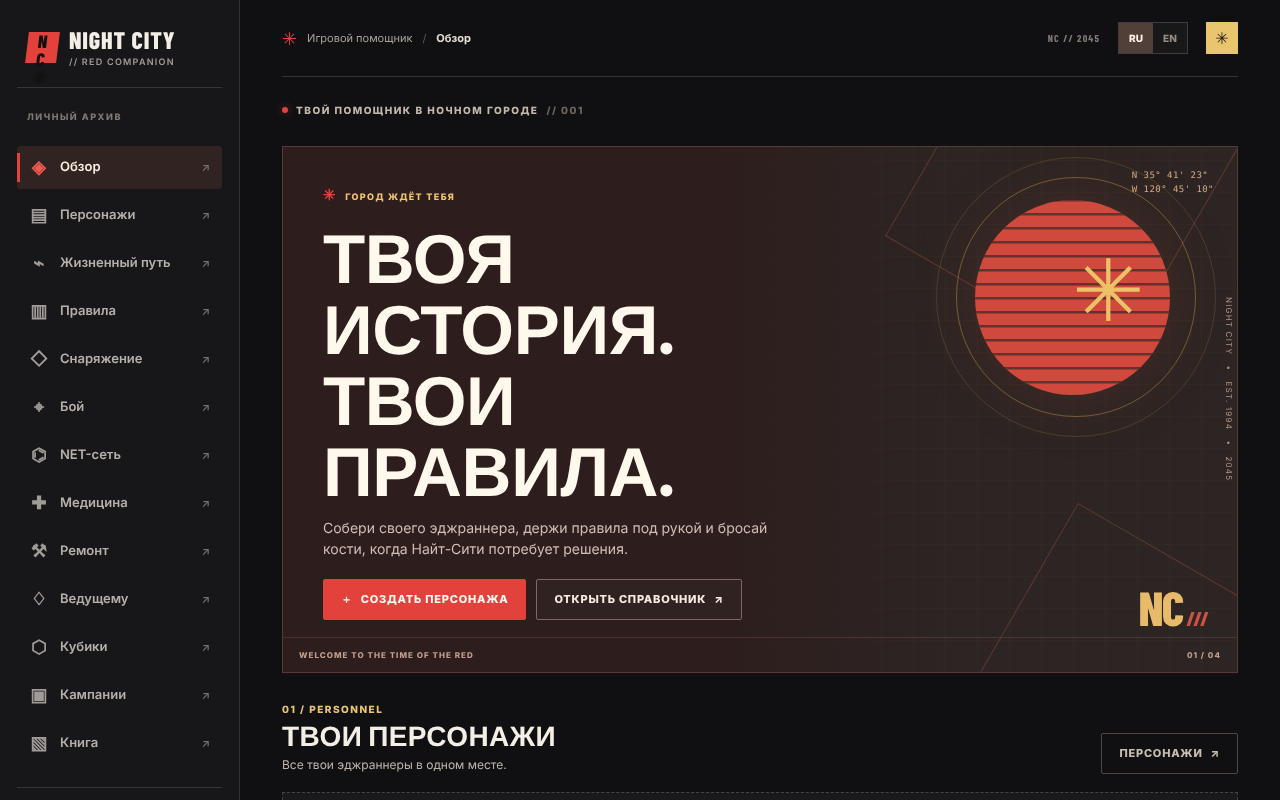
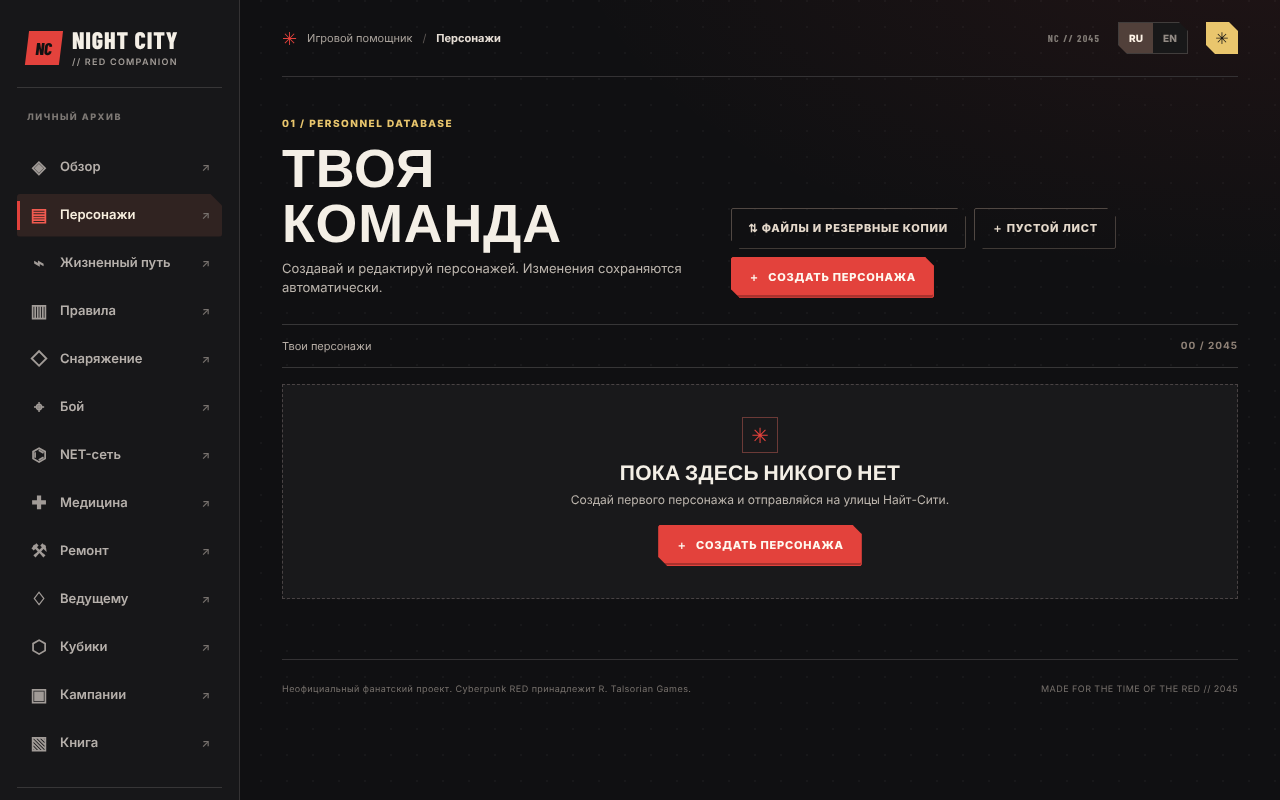
Phones: compact 5-column stat block on the sheet
Claude-Session: https://claude.ai/code/session_01RmsTizHz8FxYqnUfFrq6GY

diff --git a/site/theme.css b/site/theme.css
@@ -271,3 +271,13 @@ body {
   .data-menu > summary { width: 100%; justify-content: center; }
   .data-menu-panel { position: static; width: 100%; margin-top: 6px; box-shadow: none; }
 }
+
+/* Phones: stats as a compact 5-column block instead of ten tall boxes */
+@media (max-width: 650px) {
+  .stats-grid { grid-template-columns: repeat(5, minmax(0, 1fr)); gap: 6px; }
+  .stats-grid .stat { padding: 8px 4px; }
+  .stats-grid .stat input:not([type='checkbox']):not([type='radio']) { min-height: 40px; margin-top: 4px; padding: 4px 2px; font-size: 20px; }
+  .stats-grid .stat span, .stats-grid .stat label { font-size: 9px; letter-spacing: .02em; }
+  .stats-grid .stat input { text-align: center; -moz-appearance: textfield; appearance: textfield; }
+  .stats-grid .stat input::-webkit-inner-spin-button, .stats-grid .stat input::-webkit-outer-spin-button { -webkit-appearance: none; margin: 0; }
+}
